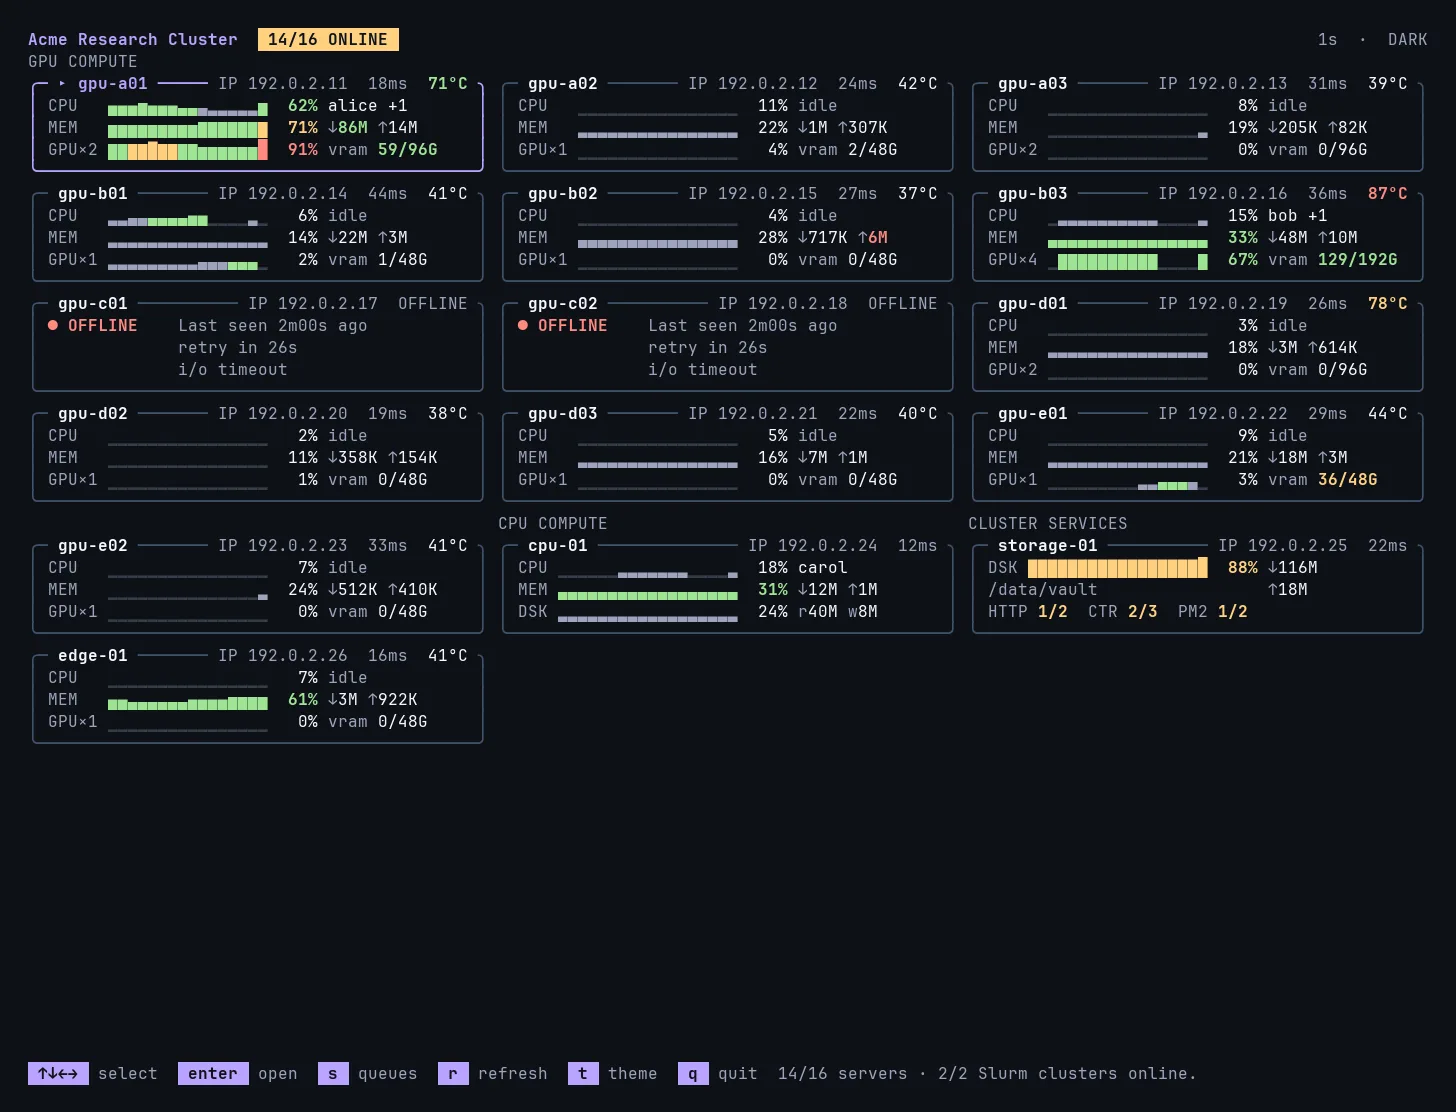
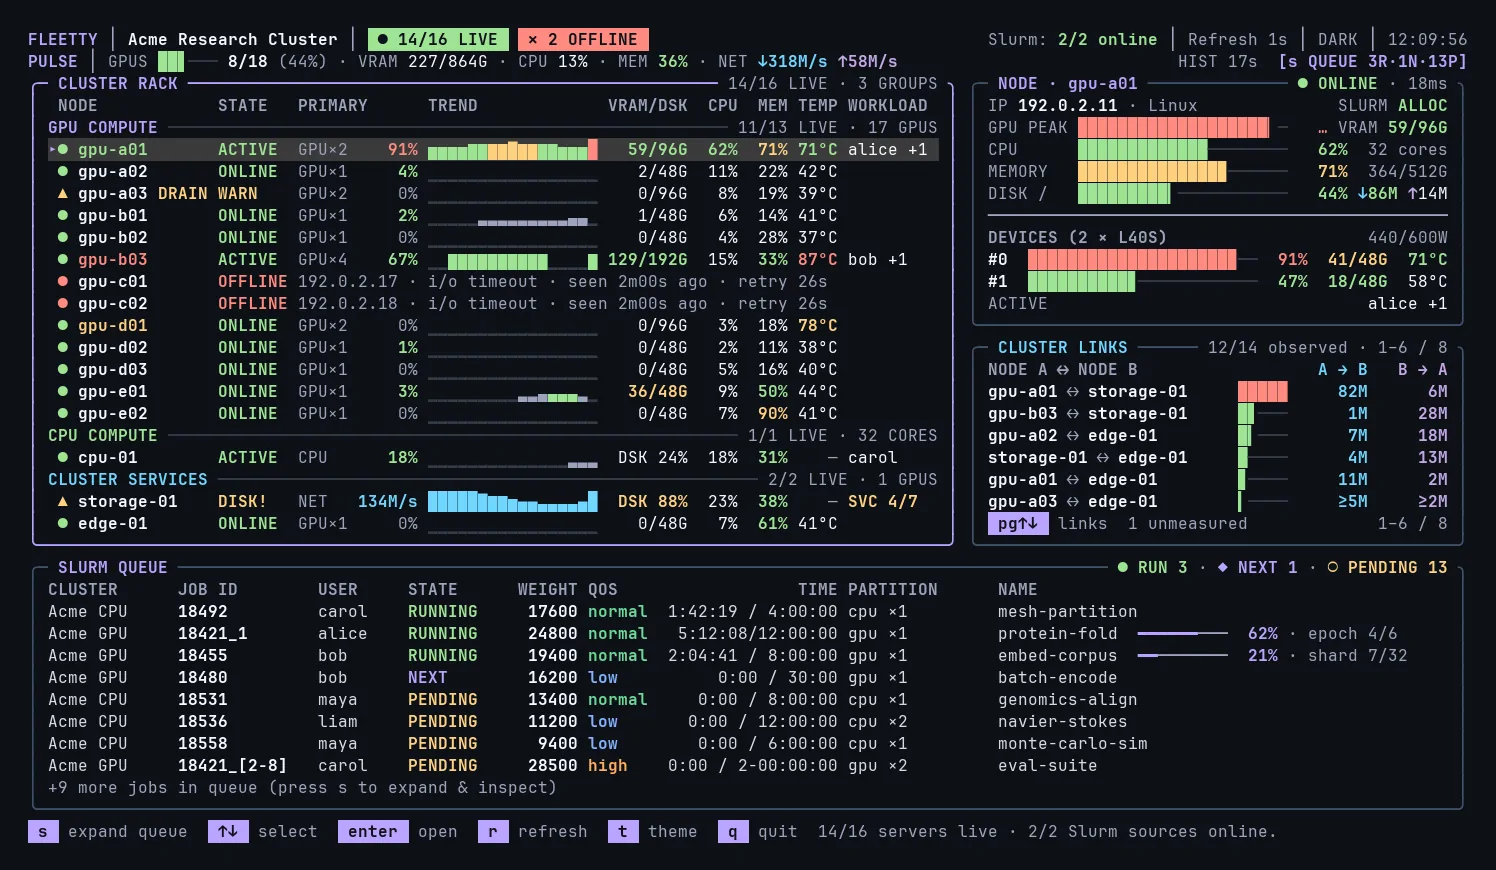
docs: refresh Fleetty README screenshots (#7)

Changed region(s): [[0.0, 0.0, 0.989, 0.9931], [0.8345, 0.7138, 0.9272, 0.7759], [0.7727, 0.7138, 0.8036, 0.7448]]

diff --git a/docs/demo/rasterize.py b/docs/demo/rasterize.py
@@ -7,6 +7,7 @@ JetBrains Mono on the theme background from viewColors().
 """
 
 import argparse
+import os
 import sys
 from pathlib import Path
 
@@ -21,8 +22,9 @@ THEMES = {
     "light": ("#F4F1EA", "#263244"),
 }
 
-REGULAR = "/usr/share/fonts/truetype/jetbrains-mono/JetBrainsMono-Regular.ttf"
-BOLD = "/usr/share/fonts/truetype/jetbrains-mono/JetBrainsMono-Bold.ttf"
+FONT_DIR = Path(os.environ.get("FLEETTY_DEMO_FONT_DIR", "/usr/share/fonts/truetype/jetbrains-mono"))
+REGULAR = FONT_DIR / "JetBrainsMono-Regular.ttf"
+BOLD = FONT_DIR / "JetBrainsMono-Bold.ttf"
 
 
 def parse_color(value):

diff --git a/README.md b/README.md
@@ -15,24 +15,29 @@ Terminal monitor for local machines, GPU nodes, storage servers, and Slurm clust
 </div>
 
 <a href="docs/images/fleetty-hub.webp">
-  <img src="docs/images/fleetty-hub.webp" alt="Acme Research Cluster in Fleetty, with one offline node and a hot GPU" width="100%">
+  <img src="docs/images/fleetty-hub.webp" alt="Fleetty Hub with node health, live cluster links, and Slurm job progress for a fictional research cluster" width="100%">
 </a>
+
+When your terminal follows the system's light or dark appearance, Fleetty follows it too. Press <kbd>t</kbd> to switch manually.
 
 <table>
   <tr>
     <td width="50%" valign="top">
-      <strong>Dark theme</strong> · press <code>t</code> to toggle<br><br>
-      <a href="docs/images/fleetty-hub.webp">
-        <img src="docs/images/fleetty-hub.webp" alt="Fleetty hub in the dark theme">
+      <strong>Dark theme</strong><br><br>
+      <a href="docs/images/fleetty-hub-dark.webp">
+        <img src="docs/images/fleetty-hub-dark.webp" alt="Fleetty Hub and expanded Slurm queue in the dark theme">
       </a>
     </td>
     <td width="50%" valign="top">
-      <strong>Light theme</strong> · follows terminal appearance<br><br>
+      <strong>Light theme</strong><br><br>
       <a href="docs/images/fleetty-hub-light.webp">
-        <img src="docs/images/fleetty-hub-light.webp" alt="Fleetty hub in the light theme">
+        <img src="docs/images/fleetty-hub-light.webp" alt="The same Fleetty Hub and expanded Slurm queue in the light theme">
       </a>
     </td>
   </tr>
+</table>
+
+<table>
   <tr>
     <td width="50%" valign="top">
       <strong>GPU node</strong> · GPUs, Slurm queue, processes<br><br>
@@ -41,13 +46,29 @@ Terminal monitor for local machines, GPU nodes, storage servers, and Slurm clust
       </a>
     </td>
     <td width="50%" valign="top">
+      <strong>Network</strong> · traffic history and connections<br><br>
+      <a href="docs/images/fleetty-network.webp">
+        <img src="docs/images/fleetty-network.webp" alt="Network traffic history and connection list for a fictional GPU node">
+      </a>
+    </td>
+  </tr>
+  <tr>
+    <td width="50%" valign="top">
       <strong>Storage node</strong> · mounts, Docker, PM2, HTTP<br><br>
       <a href="docs/images/fleetty-nas.webp">
         <img src="docs/images/fleetty-nas.webp" alt="Fleetty overview of the fictional node storage-01">
       </a>
     </td>
+    <td width="50%" valign="top">
+      <strong>Storage map</strong> · directory sizes at a glance<br><br>
+      <a href="docs/images/fleetty-storage-map.webp">
+        <img src="docs/images/fleetty-storage-map.webp" alt="Fleetty storage treemap and directory size list">
+      </a>
+    </td>
   </tr>
 </table>
+
+Built with Bubble Tea and Lip Gloss for the terminal UI, Wish for SSH, and Charm Log for logging.
 
 ## Install
 

diff --git a/README.zh-CN.md b/README.zh-CN.md
@@ -15,24 +15,29 @@
 </div>
 
 <a href="docs/images/fleetty-hub.webp">
-  <img src="docs/images/fleetty-hub.webp" alt="Fleetty 中的 Acme Research Cluster，含一台离线节点和一块高温 GPU" width="100%">
+  <img src="docs/images/fleetty-hub.webp" alt="Fleetty Hub 展示虚构集群的节点状态、实时节点间流量和 Slurm 作业进度" width="100%">
 </a>
+
+当终端跟随系统切换深浅色时，Fleetty 也会自动切换；也可按 <kbd>t</kbd> 手动切换。
 
 <table>
   <tr>
     <td width="50%" valign="top">
-      <strong>深色主题</strong> · 按 <code>t</code> 切换<br><br>
-      <a href="docs/images/fleetty-hub.webp">
-        <img src="docs/images/fleetty-hub.webp" alt="深色主题下的 Fleetty Hub">
+      <strong>深色主题</strong><br><br>
+      <a href="docs/images/fleetty-hub-dark.webp">
+        <img src="docs/images/fleetty-hub-dark.webp" alt="深色主题下的 Fleetty Hub 和展开的 Slurm 队列">
       </a>
     </td>
     <td width="50%" valign="top">
-      <strong>浅色主题</strong> · 自动跟随终端外观<br><br>
+      <strong>浅色主题</strong><br><br>
       <a href="docs/images/fleetty-hub-light.webp">
-        <img src="docs/images/fleetty-hub-light.webp" alt="浅色主题下的 Fleetty Hub">
+        <img src="docs/images/fleetty-hub-light.webp" alt="浅色主题下相同的 Fleetty Hub 和 Slurm 队列">
       </a>
     </td>
   </tr>
+</table>
+
+<table>
   <tr>
     <td width="50%" valign="top">
       <strong>GPU 节点</strong> · GPU、Slurm 队列与进程<br><br>
@@ -41,13 +46,29 @@
       </a>
     </td>
     <td width="50%" valign="top">
+      <strong>网络</strong> · 流量历史与连接列表<br><br>
+      <a href="docs/images/fleetty-network.webp">
+        <img src="docs/images/fleetty-network.webp" alt="虚构 GPU 节点的网络流量历史与连接列表">
+      </a>
+    </td>
+  </tr>
+  <tr>
+    <td width="50%" valign="top">
       <strong>存储节点</strong> · 挂载点、Docker、PM2 与 HTTP<br><br>
       <a href="docs/images/fleetty-nas.webp">
         <img src="docs/images/fleetty-nas.webp" alt="虚构节点 storage-01 的 Fleetty 总览">
       </a>
     </td>
+    <td width="50%" valign="top">
+      <strong>存储地图</strong> · 直观看到目录占用<br><br>
+      <a href="docs/images/fleetty-storage-map.webp">
+        <img src="docs/images/fleetty-storage-map.webp" alt="Fleetty 的存储树图与目录占用列表">
+      </a>
+    </td>
   </tr>
 </table>
+
+终端界面使用 Bubble Tea 和 Lip Gloss，SSH 服务使用 Wish，日志使用 Charm Log。
 
 ## 安装
 
